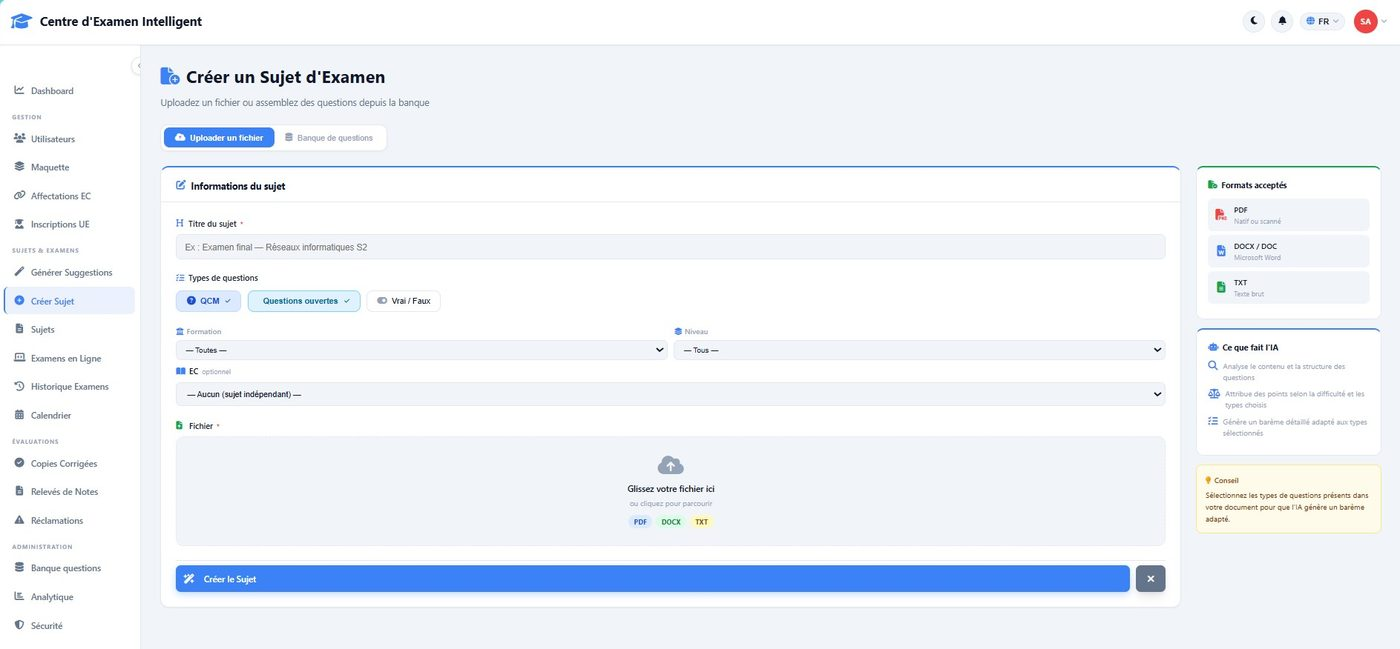
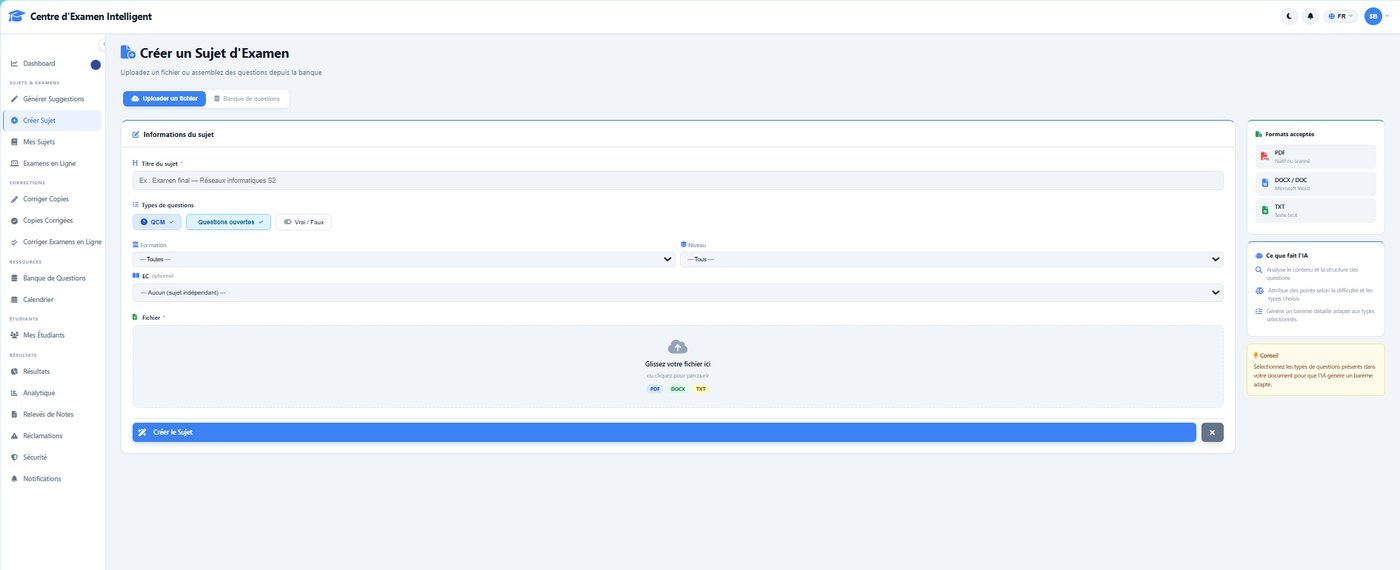
fix: timeout client 30s trop court sur les uploads IA (sujet + correction batch)
/api/subjects/upload et /api/papers/upload-batch déclenchent un traitement
IA long (extraction PDF + appel LLM, 45-70s observés) mais ne matchaient
aucun des motifs /generate|/correct|/ai/ utilisés pour appliquer le
timeout IA de 180s — ils héritaient donc du timeout par défaut de 30s et
étaient abandonnés côté client avant la fin du traitement backend
(confirmé par des 200 backend en 48-67s vs 499 nginx ~30s après envoi).

Ajoute un paramètre timeoutMs explicite à api.upload() et l'applique aux
deux endpoints concernés.

Actualise aussi les captures d'écran du guide enseignant (étapes 1 et 4)
pour refléter l'UI actuelle.

diff --git a/lib/api.ts b/lib/api.ts
@@ -9,7 +9,7 @@
 const API_URL = process.env.NEXT_PUBLIC_API_URL || 'https://dev-cei.ddns.net'
 
 const DEFAULT_TIMEOUT_MS = 30_000   // 30 s pour les routes normales
-const AI_TIMEOUT_MS      = 180_000  // 3 min pour les routes IA
+export const AI_TIMEOUT_MS = 180_000  // 3 min pour les routes IA
 
 // ── Helpers ───────────────────────────────────────────────────────────────────
 function getToken(): string | null {
@@ -158,8 +158,8 @@ export const api = {
   post:   <T = any>(path: string, data?: any)                                  => _request<T>('POST', path, data),
   put:    <T = any>(path: string, data?: any)                                  => _request<T>('PUT', path, data),
   delete: <T = any>(path: string)                                              => _request<T>('DELETE', path),
-  upload: <T = any>(path: string, fd: FormData, method = 'POST')              =>
-    _request<T>(method, path, fd, { formData: true }),
+  upload: <T = any>(path: string, fd: FormData, method = 'POST', opts?: { timeoutMs?: number }) =>
+    _request<T>(method, path, fd, { formData: true, timeoutMs: opts?.timeoutMs }),
   blob:   (path: string)                                                       =>
     _request<Blob>('GET', path, undefined, { blob: true }),
   aiPost: <T = any>(path: string, data?: any)                                  =>

diff --git a/app/dashboard/professor/papers/page.tsx b/app/dashboard/professor/papers/page.tsx
@@ -2,7 +2,7 @@
 
 import { useEffect, useRef, useState } from 'react'
 import Link from 'next/link'
-import api from '@/lib/api'
+import api, { AI_TIMEOUT_MS } from '@/lib/api'
 
 interface Subject {
   id: number
@@ -133,7 +133,7 @@ export default function ProfessorPapersPage() {
       fd.append('subject_id', batchSubjectId)
       fd.append('auto_extract', batchAutoExtract ? '1' : '0')
       for (let i = 0; i < batchFiles.length; i++) fd.append('files', batchFiles[i])
-      const res = await api.upload<{ success: boolean; corrected?: number; errors?: number; results?: BatchResultItem[]; error_details?: string[]; error?: string }>('/api/papers/upload-batch', fd)
+      const res = await api.upload<{ success: boolean; corrected?: number; errors?: number; results?: BatchResultItem[]; error_details?: string[]; error?: string }>('/api/papers/upload-batch', fd, 'POST', { timeoutMs: AI_TIMEOUT_MS })
       if (res.success) {
         setBatchResult({ corrected: res.corrected ?? 0, errors: res.errors ?? 0, results: res.results, error_details: res.error_details })
         setTimeout(() => resultsRef.current?.scrollIntoView({ behavior: 'smooth' }), 100)

diff --git a/hooks/useSubjectUpload.ts b/hooks/useSubjectUpload.ts
@@ -5,7 +5,7 @@
  * Extracted from create-subject/page.tsx to keep the page thin.
  */
 import { useRef, useState } from 'react'
-import api from '@/lib/api'
+import api, { AI_TIMEOUT_MS } from '@/lib/api'
 
 export interface CreatedSubject {
   id: number
@@ -82,7 +82,7 @@ export function useSubjectUpload(
       fd.append('file', file)
 
       const res = await api.upload<{ success: boolean; subject: CreatedSubject }>(
-        '/api/subjects/upload', fd,
+        '/api/subjects/upload', fd, 'POST', { timeoutMs: AI_TIMEOUT_MS },
       )
       setPhase(4)
       await new Promise(r => setTimeout(r, 600))